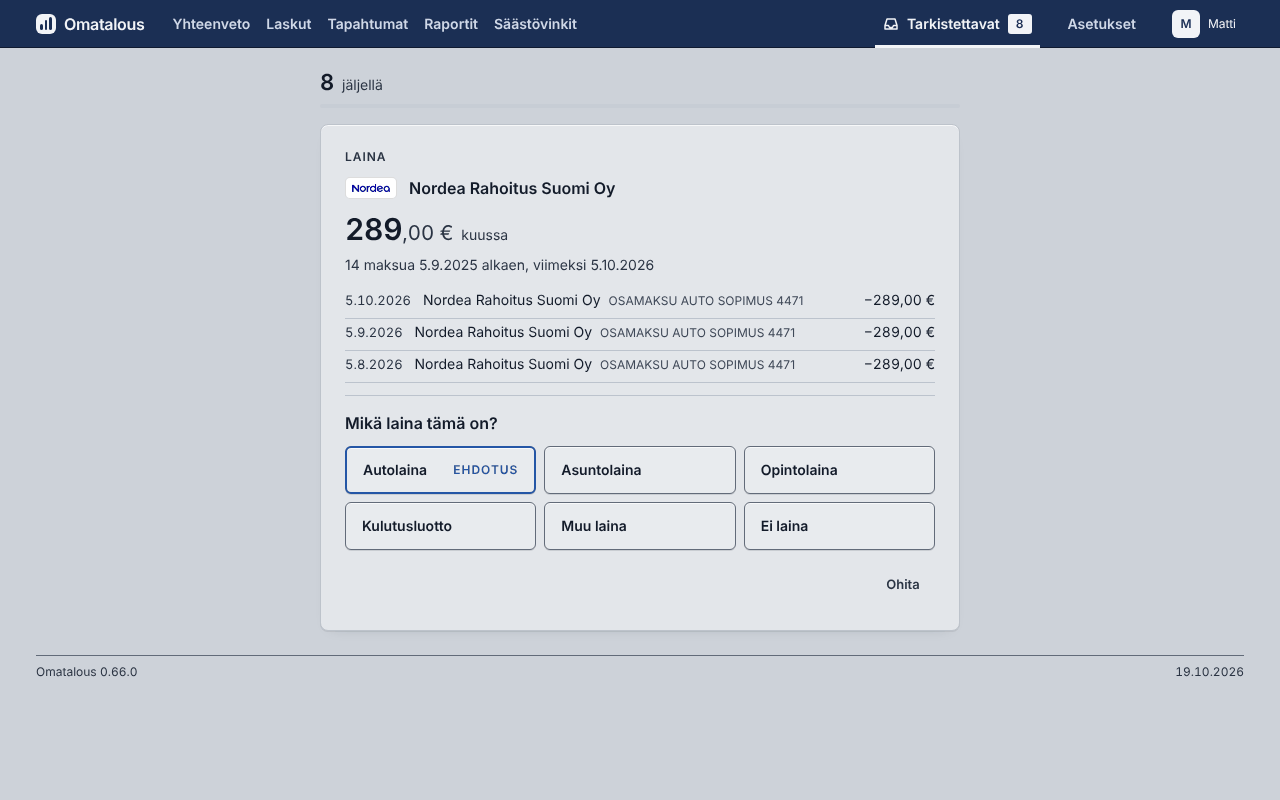
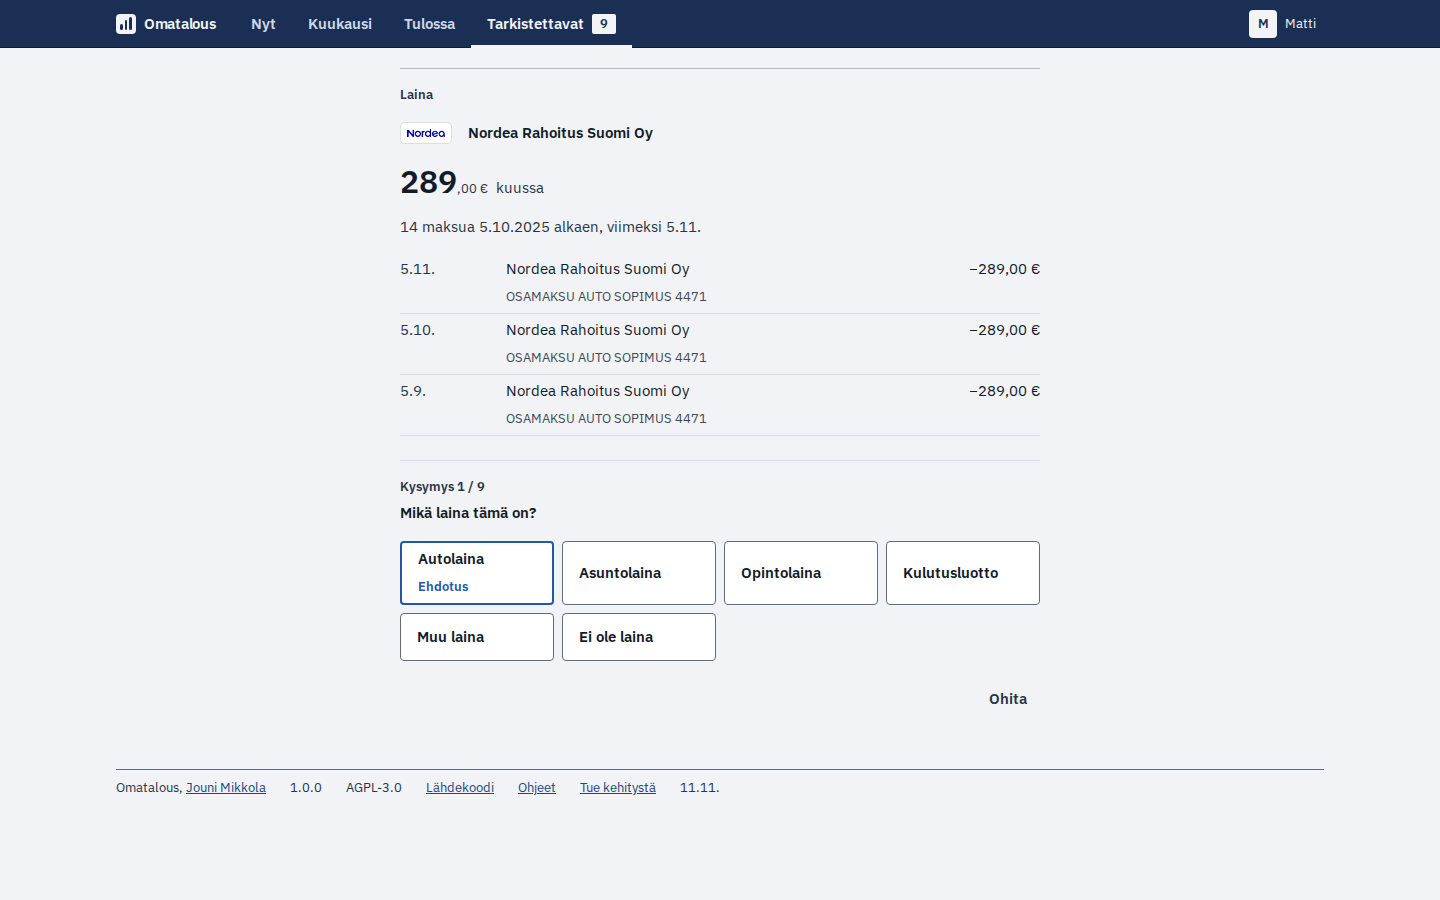
README shows the four tabs of today's app, with fresh pictures (#354)

diff --git a/tools/test/docs-shots.test.ts b/tools/test/docs-shots.test.ts
@@ -1,8 +1,9 @@
 import { existsSync, readdirSync, readFileSync, statSync } from "node:fs";
 import { join } from "node:path";
 import { describe, expect, it } from "vitest";
+import { NAV } from "../../apps/web/src/nav.ts";
 import { IMAGES, PICTURES } from "../docs-shots.mjs";
-import { FILES as VIDEO, MAX_BYTES as VIDEO_MAX } from "../readme-video.mjs";
+import { FILES as VIDEO, MAX_BYTES as VIDEO_MAX, SCENES } from "../readme-video.mjs";
 
 const ROOT = join(import.meta.dirname, "../..");
 /** Photographs of an outside site: nobody here makes them. */
@@ -32,9 +33,26 @@ describe("docs:shots", () => {
   it("the README starts with the video and a still for reduced motion, both made by readme:video, under the cap", () => {
     const readme = readFileSync(join(ROOT, "README.md"), "utf8");
     const picture = /<picture>[\s\S]*?<\/picture>/.exec(readme)?.[0] ?? "";
-    expect(readme.indexOf("<picture>")).toBeLessThan(readme.indexOf("![Yhteenveto"));
+    expect(readme.indexOf("<picture>")).toBeLessThan(readme.indexOf("![Nyt"));
     expect(picture).toContain(`media="(prefers-reduced-motion: reduce)" srcset="docs/images/${VIDEO.still}"`);
     expect(picture).toMatch(new RegExp(`<img src="docs/images/${VIDEO.video}" alt="[^"]{20,}"`));
     expect(statSync(join(IMAGES, VIDEO.video)).size).toBeLessThan(VIDEO_MAX);
+  });
+
+  // The README shows the app a visitor installs today: a page the tabs no longer have is a stale picture.
+  it("the README names every tab and shows a picture of it at 1440 px", () => {
+    const readme = readFileSync(join(ROOT, "README.md"), "utf8");
+    const pictures = PICTURES as { file: string; route: string; width: number }[];
+    for (const tab of NAV) {
+      expect(readme, tab.label).toContain(`- ${tab.label} (`);
+      const shown = pictures.filter((p) => p.route === tab.id && p.width === 1440).map((p) => p.file);
+      expect(shown.some((f) => readme.includes(`docs/images/${f}`)), tab.id).toBe(true);
+    }
+  });
+
+  it("every scene of the README video is a tab or the rows list, and every tab has a scene", () => {
+    const routes = (SCENES as { route: string }[]).map((s) => s.route);
+    for (const r of routes) expect([...NAV.map((n) => n.id), "transactions"]).toContain(r);
+    for (const tab of NAV) expect(routes, tab.id).toContain(tab.id);
   });
 });

diff --git a/README.md b/README.md
@@ -1,14 +1,15 @@
 # Omatalous
 
 Omatalous is a personal finance app for a Finnish household that runs in Docker on your own Linux machine and reads
-your bank accounts through PSD2, by way of [Enable Banking](https://enablebanking.com).
+your bank accounts through PSD2, by way of [Enable Banking](https://enablebanking.com). It opens on one sum: what is
+left until the next payday after the bills due before it.
 
 <picture>
   <source media="(prefers-reduced-motion: reduce)" srcset="docs/images/omatalous-still.png">
-  <img src="docs/images/omatalous.png" alt="A short animation of Omatalous with example data. It shows the month's spending against a usual month, net assets, debts and the buffer, the transactions sorted into categories, the report questions and a question the app asks the household.">
+  <img src="docs/images/omatalous.png" alt="A short animation of Omatalous with example data, in English. It shows the four tabs: what is left until payday, the month's spending by category against a usual month, the bills coming before payday and a question the app asks the household, and then the transactions sorted into categories.">
 </picture>
 
-![Yhteenveto, the overview page, with example data: what is available until the next payday, this month's spending against a usual month, last month's surplus and the total on the accounts, and a chart of the month's spending day by day](docs/images/yhteenveto.png)
+![Nyt, the first page, with example data: 3 025 euros left until payday on the 25th, 216 euros a day, the month's spending of 2 027 euros against the usual band to the same day, and a chart of the month's spending day by day](docs/images/nyt.png)
 
 ## What it does
 
@@ -16,55 +17,59 @@ The app fetches the household's transactions from the bank at 6 and 18 by defaul
 Finnish or English, in a browser on a computer or a phone. All figures above and below are from the example household that comes
 with the code.
 
+The app has four tabs, one for each question a household asks of its money.
+
+- Nyt (now): how much is left until the next payday after the bills due before it, per day, and how this month's
+  spending compares with a usual month on the same day.
+- Kuukausi (month): this month's spending by category against the usual to the same day, the categories that explain
+  the difference first. Earlier months are a click back.
+- Tulossa (coming): the bills and income before the next payday, and the bills, contracts and subscriptions that
+  repeat, with their next date. A bill the app has not seen yet is added by hand.
+- Tarkistettavat (to review): every question the app cannot settle itself, such as which kind of loan a repeating
+  payment is or which category an unknown payee belongs to, asked one at a time.
+
+A figure opens the transactions behind it. Lisää (more), in the user menu, has the longer views: the year, accounts
+and balances, loans, the tax year and, when two members share an account, its costs.
+
 - Every money movement goes into one of five flows: spending, loan payments, saving, income and borrowing. A move
   between your own accounts counts in none of them, and neither does a card bill when the card's account is connected.
   [Money flows](docs/MONEY_FLOWS.md) explains each rule.
-- Yhteenveto (the overview) shows what is available until the next payday after the bills due before it, and how this
-  month's spending compares with a usual month on the same day.
-- Accounts, credit cards and loans are listed with their balances. A card shows how much of its limit is used.
-- Raportit (reports) answers six questions on six pages (this month, spending, income, fixed costs, debts and
-  balances), and a seventh about shared accounts when two members share one. Among the sections are income against
-  spending month by month, fixed and variable costs, and, once there are 15 months of rows, a comparison
-  with the same months a year earlier. Most tables of more than ten rows download as CSV.
 - A bank's CSV export, a camt.053 statement or a card statement (CSV or text) is read in the browser, and only
   its rows go to the install. It fills an account the bank does not give through PSD2.
-- The app finds subscriptions and bills that repeat, and warns about double charges and late fees. Säästövinkit
-  (saving tips) shows where the household could spend less, with the calculation behind each figure.
 - A joint account is split between its users by who paid into it, equally or by percentages, and each member sees
   their own part.
 - A loan at a lender that is not connected is typed into a short form.
-- Tarkistettavat (to check) collects every question the app cannot settle itself, such as which kind of loan a
-  repeating payment is, and asks them one at a time.
+- Most tables of more than ten rows download as CSV.
 - The database is copied every day. If the database is damaged, the app starts from the newest intact copy. With the
   maintenance helper, updates and rollbacks run from the settings page, and an update that leaves the app not answering
   is taken back.
 
 <table>
 <tr>
-<td width="50%"><img src="docs/images/varallisuus.png" alt="Varallisuus on the overview page: two accounts with their balances, a gold credit card face showing the used credit, and a loan without a balance"></td>
-<td width="50%"><img src="docs/images/tapahtumat.png" alt="Tapahtumat filtered to the checking account: 133 transactions with totals paid and received, a weekly bar chart, and rows for an electricity bill, a MobilePay payment, a card bill and a monthly fund saving, each with its category"></td>
+<td width="50%"><img src="docs/images/kuukausi.png" alt="Kuukausi: spending of 2 027 euros from the 1st to the 11th against the usual 2 040 euros, and the categories that explain the difference, each with its sum, its usual sum and the gap in euros"></td>
+<td width="50%"><img src="docs/images/tulossa.png" alt="Tulossa: three bills before payday that add up to 1 900,54 euros, the payday on the 25th, and the list of bills, contracts and subscriptions with their kind, next date and amount"></td>
 </tr>
 <tr>
-<td>The accounts, the credit card and its used credit.</td>
-<td>Transactions of one account with their categories.</td>
+<td>Where this month's money went, against a usual month.</td>
+<td>The bills before payday and what repeats.</td>
 </tr>
 <tr>
-<td><img src="docs/images/raportit.png" alt="Raportit, the cash flow report for 12 months: income, spending, debt payments, saving and the surplus of each month as bars, with the savings rate"></td>
-<td><img src="docs/images/tarkistettavat.png" alt="Tarkistettavat: a card asking which kind of loan a repeating 289 euro payment to Nordea Rahoitus Suomi Oy is, with the car loan suggested"></td>
+<td><img src="docs/images/tarkistettavat.png" alt="Tarkistettavat: question 1 of 9 asks which kind of loan a repeating 289 euro payment to Nordea Rahoitus Suomi Oy is, with its last three payments and the car loan suggested"></td>
+<td><img src="docs/images/tapahtumat.png" alt="Tapahtumat: the rows by day with the payee, the bank's message, the account and the category, a search field and filters above them"></td>
 </tr>
 <tr>
-<td>Where twelve months of income went.</td>
 <td>A question the app asks instead of guessing.</td>
+<td>Every transaction with its category.</td>
 </tr>
 <tr>
-<td><img src="docs/images/tilit.png" alt="A joint account in Asetukset > Tilit: how its costs are split, and a monthly table of what each member paid in and their share of the costs"></td>
+<td><img src="docs/images/tilit.png" alt="Asetukset > Pankit ja tilit: a linked bank with its four accounts and cards, the consent valid until May, the time of the last fetch, and the accounts with their balances"></td>
 </tr>
 <tr>
-<td>A joint account month by month.</td>
+<td>The bank link and the accounts in Asetukset.</td>
 </tr>
 </table>
 
-<img src="docs/images/yhteenveto-puhelin.png" alt="The overview page on a phone: the four key figures in two rows, the spending chart below them and the page menu at the bottom of the screen" width="240">
+<img src="docs/images/nyt-puhelin.png" alt="Nyt on a phone: the sum left until payday, the spending chart and the four tabs at the bottom of the screen" width="240"> <img src="docs/images/tarkistettavat-puhelin.png" alt="Tarkistettavat on a phone: the loan question with its payments and the answers as buttons" width="240">
 
 ## Banks
 
@@ -127,7 +132,7 @@ the host runs updates, backups and rollbacks, and takes updates from GitHub Rele
 
 The code is TypeScript in three packages. `packages/core` holds the rules and the figures with no input or output of
 its own, so the same code runs on the server and in the browser. `apps/server` is a [Hono](https://hono.dev) server on
-Node.js 22 with its built-in SQLite, and `apps/web` is a React page built with Vite, with charts drawn in SVG by the app
+Node.js 24 with its built-in SQLite, and `apps/web` is a React page built with Vite, with charts drawn in SVG by the app
 itself. Money is counted in whole cents. A change lands after the type checks, the Vitest suites, the shell suites and the
 Playwright tests of the pages pass. See [Architecture](docs/ARCHITECTURE.md) and [Development](docs/DEVELOPMENT.md).
 

diff --git a/docs/DEVELOPMENT.md b/docs/DEVELOPMENT.md
@@ -444,8 +444,8 @@ for example `tools/visual-check.sh origin/main -- reports --demo --widths 1280,3
 `pnpm readme:video` remakes the animation at the top of the README (`docs/images/omatalous.png`, an APNG of five scenes of the example household in English, under 1 MB) and its still for reduced motion (`omatalous-still.png`). The scenes and captions are `SCENES` in `tools/readme-video.mjs`. Run it when a page it shows changed, and read the frames.
 
 `pnpm docs:shots` remakes the pictures of the README and the docs in `docs/images/`. They come from the example
-household and each is under 300 kB. The pages are `yhteenveto`, `varallisuus`, `tilit`, `raportit`,
-`tapahtumat` and `tarkistettavat` at 1280 x 800. The phone view is `yhteenveto-puhelin` at 390 x 844.
+household and each is under 300 kB. The pages are `nyt`, `kuukausi`, `tulossa`, `tarkistettavat`, `tapahtumat` and
+`tilit` at 1440 x 900. The phone views are `nyt-puhelin` and `tarkistettavat-puhelin` at 390 x 844.
 Run it before a release when a page changed. Read the pictures. A picture a document names that nobody makes turns `pnpm test` red.
 
 - `--demo` loads the demo household; `--fake-bank` links the fake bank (a joint account, a card with a limit and a
